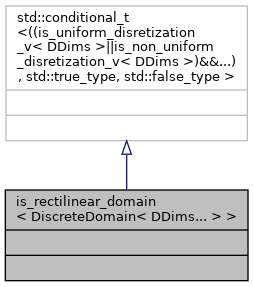
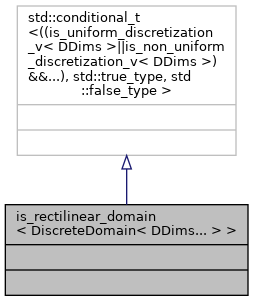
Update to match 39ebd8e16cf81e4c03fc0f7880548fac4b9d518c by push 31

diff --git a/uniform__discretization_8hpp_source.html b/uniform__discretization_8hpp_source.html
@@ -119,17 +119,17 @@ $(document).ready(function(){initNavTree('uniform__discretization_8hpp_source.ht
 <div class="line"><a name="l00086"></a><span class="lineno">   86</span>&#160;};</div>
 <div class="line"><a name="l00087"></a><span class="lineno">   87</span>&#160; </div>
 <div class="line"><a name="l00088"></a><span class="lineno">   88</span>&#160;<span class="keyword">template</span> &lt;<span class="keyword">class</span>&gt;</div>
-<div class="line"><a name="l00089"></a><span class="lineno"><a class="line" href="structis__uniform__disretization.html">   89</a></span>&#160;<span class="keyword">struct </span><a class="code" href="structis__uniform__disretization.html">is_uniform_disretization</a> : <span class="keyword">public</span> std::false_type</div>
+<div class="line"><a name="l00089"></a><span class="lineno"><a class="line" href="structis__uniform__discretization.html">   89</a></span>&#160;<span class="keyword">struct </span><a class="code" href="structis__uniform__discretization.html">is_uniform_discretization</a> : <span class="keyword">public</span> std::false_type</div>
 <div class="line"><a name="l00090"></a><span class="lineno">   90</span>&#160;{</div>
 <div class="line"><a name="l00091"></a><span class="lineno">   91</span>&#160;};</div>
 <div class="line"><a name="l00092"></a><span class="lineno">   92</span>&#160; </div>
 <div class="line"><a name="l00093"></a><span class="lineno">   93</span>&#160;<span class="keyword">template</span> &lt;<span class="keyword">class</span> CDim&gt;</div>
-<div class="line"><a name="l00094"></a><span class="lineno"><a class="line" href="structis__uniform__disretization_3_01UniformDiscretization_3_01CDim_01_4_01_4.html">   94</a></span>&#160;<span class="keyword">struct </span><a class="code" href="structis__uniform__disretization.html">is_uniform_disretization</a>&lt;<a class="code" href="classUniformDiscretization.html">UniformDiscretization</a>&lt;CDim&gt;&gt; : <span class="keyword">public</span> std::true_type</div>
+<div class="line"><a name="l00094"></a><span class="lineno"><a class="line" href="structis__uniform__discretization_3_01UniformDiscretization_3_01CDim_01_4_01_4.html">   94</a></span>&#160;<span class="keyword">struct </span><a class="code" href="structis__uniform__discretization.html">is_uniform_discretization</a>&lt;<a class="code" href="classUniformDiscretization.html">UniformDiscretization</a>&lt;CDim&gt;&gt; : <span class="keyword">public</span> std::true_type</div>
 <div class="line"><a name="l00095"></a><span class="lineno">   95</span>&#160;{</div>
 <div class="line"><a name="l00096"></a><span class="lineno">   96</span>&#160;};</div>
 <div class="line"><a name="l00097"></a><span class="lineno">   97</span>&#160; </div>
 <div class="line"><a name="l00098"></a><span class="lineno">   98</span>&#160;<span class="keyword">template</span> &lt;<span class="keyword">class</span> DDim&gt;</div>
-<div class="line"><a name="l00099"></a><span class="lineno">   99</span>&#160;constexpr <span class="keywordtype">bool</span> is_uniform_disretization_v = <a class="code" href="structis__uniform__disretization.html">is_uniform_disretization&lt;DDim&gt;::value</a>;</div>
+<div class="line"><a name="l00099"></a><span class="lineno">   99</span>&#160;constexpr <span class="keywordtype">bool</span> is_uniform_discretization_v = <a class="code" href="structis__uniform__discretization.html">is_uniform_discretization&lt;DDim&gt;::value</a>;</div>
 <div class="line"><a name="l00100"></a><span class="lineno">  100</span>&#160; </div>
 <div class="line"><a name="l00101"></a><span class="lineno">  101</span>&#160; </div>
 <div class="line"><a name="l00102"></a><span class="lineno">  102</span>&#160;<span class="keyword">template</span> &lt;<span class="keyword">class</span> CDim&gt;</div>
@@ -140,13 +140,13 @@ $(document).ready(function(){initNavTree('uniform__discretization_8hpp_source.ht
 <div class="line"><a name="l00107"></a><span class="lineno">  107</span>&#160;}</div>
 <div class="line"><a name="l00108"></a><span class="lineno">  108</span>&#160; </div>
 <div class="line"><a name="l00110"></a><span class="lineno">  110</span>&#160;<span class="keyword">template</span> &lt;<span class="keyword">class</span> DDim&gt;</div>
-<div class="line"><a name="l00111"></a><span class="lineno">  111</span>&#160;std::enable_if_t&lt;is_uniform_disretization_v&lt;DDim&gt;, <span class="keyword">typename</span> DDim::rcoord_type&gt; origin() noexcept</div>
+<div class="line"><a name="l00111"></a><span class="lineno">  111</span>&#160;std::enable_if_t&lt;is_uniform_discretization_v&lt;DDim&gt;, <span class="keyword">typename</span> DDim::rcoord_type&gt; origin() noexcept</div>
 <div class="line"><a name="l00112"></a><span class="lineno">  112</span>&#160;{</div>
 <div class="line"><a name="l00113"></a><span class="lineno">  113</span>&#160;    <span class="keywordflow">return</span> discretization&lt;DDim&gt;().origin();</div>
 <div class="line"><a name="l00114"></a><span class="lineno">  114</span>&#160;}</div>
 <div class="line"><a name="l00115"></a><span class="lineno">  115</span>&#160; </div>
 <div class="line"><a name="l00117"></a><span class="lineno">  117</span>&#160;<span class="keyword">template</span> &lt;<span class="keyword">class</span> DDim&gt;</div>
-<div class="line"><a name="l00118"></a><span class="lineno">  118</span>&#160;std::enable_if_t&lt;is_uniform_disretization_v&lt;DDim&gt;, <span class="keyword">typename</span> DDim::rcoord_type&gt; step() noexcept</div>
+<div class="line"><a name="l00118"></a><span class="lineno">  118</span>&#160;std::enable_if_t&lt;is_uniform_discretization_v&lt;DDim&gt;, <span class="keyword">typename</span> DDim::rcoord_type&gt; step() noexcept</div>
 <div class="line"><a name="l00119"></a><span class="lineno">  119</span>&#160;{</div>
 <div class="line"><a name="l00120"></a><span class="lineno">  120</span>&#160;    <span class="keywordflow">return</span> discretization&lt;DDim&gt;().step();</div>
 <div class="line"><a name="l00121"></a><span class="lineno">  121</span>&#160;}</div>
@@ -196,11 +196,11 @@ $(document).ready(function(){initNavTree('uniform__discretization_8hpp_source.ht
 <div class="ttc" id="aclassUniformDiscretization_html_ac77ac9f0fe728b7604f74615b544b52f"><div class="ttname"><a href="classUniformDiscretization.html#ac77ac9f0fe728b7604f74615b544b52f">UniformDiscretization::UniformDiscretization</a></div><div class="ttdeci">constexpr UniformDiscretization(rcoord_type a, rcoord_type b, std::size_t n)</div><div class="ttdoc">Construct a UniformDiscretization from a segment  and a number of points n.</div><div class="ttdef"><b>Definition:</b> uniform_discretization.hpp:55</div></div>
 <div class="ttc" id="aclassUniformDiscretization_html_afb0660ef840bf122183332a79ce888bb"><div class="ttname"><a href="classUniformDiscretization.html#afb0660ef840bf122183332a79ce888bb">UniformDiscretization::mcoord_type</a></div><div class="ttdeci">DiscreteCoordinate&lt; UniformDiscretization &gt; mcoord_type</div><div class="ttdef"><b>Definition:</b> uniform_discretization.hpp:19</div></div>
 <div class="ttc" id="aclassDiscreteDomain_html"><div class="ttname"><a href="classDiscreteDomain.html">DiscreteDomain</a></div><div class="ttdef"><b>Definition:</b> discrete_domain.hpp:17</div></div>
-<div class="ttc" id="astructis__uniform__disretization_html"><div class="ttname"><a href="structis__uniform__disretization.html">is_uniform_disretization</a></div><div class="ttdef"><b>Definition:</b> uniform_discretization.hpp:89</div></div>
 <div class="ttc" id="aclassUniformDiscretization_html_aa679e3c486551a4fa5c930ffe08cd75a"><div class="ttname"><a href="classUniformDiscretization.html#aa679e3c486551a4fa5c930ffe08cd75a">UniformDiscretization::origin</a></div><div class="ttdeci">constexpr rcoord_type origin() const noexcept</div><div class="ttdoc">Lower bound index of the mesh.</div><div class="ttdef"><b>Definition:</b> uniform_discretization.hpp:70</div></div>
 <div class="ttc" id="aclassUniformDiscretization_html_a2b56fcf6685e7b74b8577c52cce5a035"><div class="ttname"><a href="classUniformDiscretization.html#a2b56fcf6685e7b74b8577c52cce5a035">UniformDiscretization::rdim_type</a></div><div class="ttdeci">CDim rdim_type</div><div class="ttdef"><b>Definition:</b> uniform_discretization.hpp:21</div></div>
 <div class="ttc" id="aclassUniformDiscretization_html_a524faba320f5ef9437fff2ba2d0d2015"><div class="ttname"><a href="classUniformDiscretization.html#a524faba320f5ef9437fff2ba2d0d2015">UniformDiscretization::step</a></div><div class="ttdeci">constexpr rcoord_type step() const</div><div class="ttdoc">Spacing step of the mesh.</div><div class="ttdef"><b>Definition:</b> uniform_discretization.hpp:76</div></div>
 <div class="ttc" id="aclassUniformDiscretization_html_a5e883613a110654331e2dee801213532"><div class="ttname"><a href="classUniformDiscretization.html#a5e883613a110654331e2dee801213532">UniformDiscretization::~UniformDiscretization</a></div><div class="ttdeci">~UniformDiscretization()=default</div></div>
 <div class="ttc" id="aclassUniformDiscretization_html_a531eb39b115772d09ade01a08bcc1444"><div class="ttname"><a href="classUniformDiscretization.html#a531eb39b115772d09ade01a08bcc1444">UniformDiscretization::rank</a></div><div class="ttdeci">static constexpr std::size_t rank()</div><div class="ttdef"><b>Definition:</b> uniform_discretization.hpp:24</div></div>
+<div class="ttc" id="astructis__uniform__discretization_html"><div class="ttname"><a href="structis__uniform__discretization.html">is_uniform_discretization</a></div><div class="ttdef"><b>Definition:</b> uniform_discretization.hpp:89</div></div>
 </body>
 </html>

diff --git a/non__uniform__discretization_8hpp_source.html b/non__uniform__discretization_8hpp_source.html
@@ -115,17 +115,17 @@ $(document).ready(function(){initNavTree('non__uniform__discretization_8hpp_sour
 <div class="line"><a name="l00071"></a><span class="lineno">   71</span>&#160;};</div>
 <div class="line"><a name="l00072"></a><span class="lineno">   72</span>&#160; </div>
 <div class="line"><a name="l00073"></a><span class="lineno">   73</span>&#160;<span class="keyword">template</span> &lt;<span class="keyword">class</span>&gt;</div>
-<div class="line"><a name="l00074"></a><span class="lineno"><a class="line" href="structis__non__uniform__disretization.html">   74</a></span>&#160;<span class="keyword">struct </span><a class="code" href="structis__non__uniform__disretization.html">is_non_uniform_disretization</a> : <span class="keyword">public</span> std::false_type</div>
+<div class="line"><a name="l00074"></a><span class="lineno"><a class="line" href="structis__non__uniform__discretization.html">   74</a></span>&#160;<span class="keyword">struct </span><a class="code" href="structis__non__uniform__discretization.html">is_non_uniform_discretization</a> : <span class="keyword">public</span> std::false_type</div>
 <div class="line"><a name="l00075"></a><span class="lineno">   75</span>&#160;{</div>
 <div class="line"><a name="l00076"></a><span class="lineno">   76</span>&#160;};</div>
 <div class="line"><a name="l00077"></a><span class="lineno">   77</span>&#160; </div>
 <div class="line"><a name="l00078"></a><span class="lineno">   78</span>&#160;<span class="keyword">template</span> &lt;<span class="keyword">class</span> CDim&gt;</div>
-<div class="line"><a name="l00079"></a><span class="lineno"><a class="line" href="structis__non__uniform__disretization_3_01NonUniformDiscretization_3_01CDim_01_4_01_4.html">   79</a></span>&#160;<span class="keyword">struct </span><a class="code" href="structis__non__uniform__disretization.html">is_non_uniform_disretization</a>&lt;<a class="code" href="classNonUniformDiscretization.html">NonUniformDiscretization</a>&lt;CDim&gt;&gt; : <span class="keyword">public</span> std::true_type</div>
+<div class="line"><a name="l00079"></a><span class="lineno"><a class="line" href="structis__non__uniform__discretization_3_01NonUniformDiscretization_3_01CDim_01_4_01_4.html">   79</a></span>&#160;<span class="keyword">struct </span><a class="code" href="structis__non__uniform__discretization.html">is_non_uniform_discretization</a>&lt;<a class="code" href="classNonUniformDiscretization.html">NonUniformDiscretization</a>&lt;CDim&gt;&gt; : <span class="keyword">public</span> std::true_type</div>
 <div class="line"><a name="l00080"></a><span class="lineno">   80</span>&#160;{</div>
 <div class="line"><a name="l00081"></a><span class="lineno">   81</span>&#160;};</div>
 <div class="line"><a name="l00082"></a><span class="lineno">   82</span>&#160; </div>
 <div class="line"><a name="l00083"></a><span class="lineno">   83</span>&#160;<span class="keyword">template</span> &lt;<span class="keyword">class</span> DDim&gt;</div>
-<div class="line"><a name="l00084"></a><span class="lineno">   84</span>&#160;constexpr <span class="keywordtype">bool</span> is_non_uniform_disretization_v = <a class="code" href="structis__non__uniform__disretization.html">is_non_uniform_disretization&lt;DDim&gt;::value</a>;</div>
+<div class="line"><a name="l00084"></a><span class="lineno">   84</span>&#160;constexpr <span class="keywordtype">bool</span> is_non_uniform_discretization_v = <a class="code" href="structis__non__uniform__discretization.html">is_non_uniform_discretization&lt;DDim&gt;::value</a>;</div>
 <div class="line"><a name="l00085"></a><span class="lineno">   85</span>&#160; </div>
 <div class="line"><a name="l00086"></a><span class="lineno">   86</span>&#160;<span class="keyword">template</span> &lt;<span class="keyword">class</span> CDim&gt;</div>
 <div class="line"><a name="l00087"></a><span class="lineno">   87</span>&#160;std::ostream&amp; operator&lt;&lt;(std::ostream&amp; out, <a class="code" href="classNonUniformDiscretization.html">NonUniformDiscretization&lt;CDim&gt;</a> <span class="keyword">const</span>&amp; mesh)</div>
@@ -171,6 +171,7 @@ $(document).ready(function(){initNavTree('non__uniform__discretization_8hpp_sour
 </div><!-- fragment --></div><!-- contents -->
 </div><!-- doc-content -->
 <div class="ttc" id="aclassNonUniformDiscretization_html"><div class="ttname"><a href="classNonUniformDiscretization.html">NonUniformDiscretization</a></div><div class="ttdoc">NonUniformDiscretization models a non-uniform discretization of the CDim segment .</div><div class="ttdef"><b>Definition:</b> non_uniform_discretization.hpp:14</div></div>
+<div class="ttc" id="astructis__non__uniform__discretization_html"><div class="ttname"><a href="structis__non__uniform__discretization.html">is_non_uniform_discretization</a></div><div class="ttdef"><b>Definition:</b> non_uniform_discretization.hpp:74</div></div>
 <div class="ttc" id="aclassNonUniformDiscretization_html_a09872caa2a5fbed5bb7eb9706b582595"><div class="ttname"><a href="classNonUniformDiscretization.html#a09872caa2a5fbed5bb7eb9706b582595">NonUniformDiscretization::NonUniformDiscretization</a></div><div class="ttdeci">constexpr NonUniformDiscretization(InputIt points_begin, InputIt points_end)</div><div class="ttdoc">Construct a NonUniformDiscretization using a pair of iterators.</div><div class="ttdef"><b>Definition:</b> non_uniform_discretization.hpp:50</div></div>
 <div class="ttc" id="aclassNonUniformDiscretization_html_ade355a5bd24c8a833fda6179de8466c6"><div class="ttname"><a href="classNonUniformDiscretization.html#ade355a5bd24c8a833fda6179de8466c6">NonUniformDiscretization::rcoord_type</a></div><div class="ttdeci">Coordinate&lt; CDim &gt; rcoord_type</div><div class="ttdef"><b>Definition:</b> non_uniform_discretization.hpp:17</div></div>
 <div class="ttc" id="aclassNonUniformDiscretization_html_ae024d15667d85acd265bcf244f073f61"><div class="ttname"><a href="classNonUniformDiscretization.html#ae024d15667d85acd265bcf244f073f61">NonUniformDiscretization::NonUniformDiscretization</a></div><div class="ttdeci">NonUniformDiscretization()=default</div></div>
@@ -182,7 +183,6 @@ $(document).ready(function(){initNavTree('non__uniform__discretization_8hpp_sour
 <div class="ttc" id="aclassNonUniformDiscretization_html_aee9fe6f42362c12f5b9dd7f3b0ac5e64"><div class="ttname"><a href="classNonUniformDiscretization.html#aee9fe6f42362c12f5b9dd7f3b0ac5e64">NonUniformDiscretization::NonUniformDiscretization</a></div><div class="ttdeci">NonUniformDiscretization(std::initializer_list&lt; rcoord_type &gt; points)</div><div class="ttdoc">Construct a NonUniformDiscretization using a brace-list, i.e. NonUniformDiscretization mesh({0....</div><div class="ttdef"><b>Definition:</b> non_uniform_discretization.hpp:36</div></div>
 <div class="ttc" id="aclassNonUniformDiscretization_html_a3ef9a15d78e957ac4129b9b9edf9a44f"><div class="ttname"><a href="classNonUniformDiscretization.html#a3ef9a15d78e957ac4129b9b9edf9a44f">NonUniformDiscretization::rdim_type</a></div><div class="ttdeci">CDim rdim_type</div><div class="ttdef"><b>Definition:</b> non_uniform_discretization.hpp:21</div></div>
 <div class="ttc" id="aclassNonUniformDiscretization_html_a0994c9bee8558427e61336f6234dd7a3"><div class="ttname"><a href="classNonUniformDiscretization.html#a0994c9bee8558427e61336f6234dd7a3">NonUniformDiscretization::size</a></div><div class="ttdeci">constexpr std::size_t size() const</div><div class="ttdef"><b>Definition:</b> non_uniform_discretization.hpp:61</div></div>
-<div class="ttc" id="astructis__non__uniform__disretization_html"><div class="ttname"><a href="structis__non__uniform__disretization.html">is_non_uniform_disretization</a></div><div class="ttdef"><b>Definition:</b> non_uniform_discretization.hpp:74</div></div>
 <div class="ttc" id="aclassNonUniformDiscretization_html_ac86c3569ff23159b3e471137abcc03d9"><div class="ttname"><a href="classNonUniformDiscretization.html#ac86c3569ff23159b3e471137abcc03d9">NonUniformDiscretization::rank</a></div><div class="ttdeci">static constexpr std::size_t rank()</div><div class="ttdef"><b>Definition:</b> non_uniform_discretization.hpp:24</div></div>
 </body>
 </html>

diff --git a/annotated.html b/annotated.html
@@ -58,12 +58,12 @@ $(document).ready(function(){initNavTree('annotated.html',''); initResizable(); 
 <tr id="row_6_" class="even"><td class="entry"><span style="width:16px;display:inline-block;">&#160;</span><span class="icona"><span class="icon">C</span></span><a class="el" href="classChunkSpan_3_01ElementType_00_01DiscreteDomain_3_01DDims_8_8_8_01_4_00_01LayoutStridedPolicy_01_4.html" target="_self">ChunkSpan&lt; ElementType, DiscreteDomain&lt; DDims... &gt;, LayoutStridedPolicy &gt;</a></td><td class="desc"></td></tr>
 <tr id="row_7_"><td class="entry"><span style="width:16px;display:inline-block;">&#160;</span><span class="icona"><span class="icon">C</span></span><a class="el" href="classDiscreteDomain.html" target="_self">DiscreteDomain</a></td><td class="desc"></td></tr>
 <tr id="row_8_" class="even"><td class="entry"><span style="width:16px;display:inline-block;">&#160;</span><span class="icona"><span class="icon">C</span></span><a class="el" href="structDiscreteDomainIterator.html" target="_self">DiscreteDomainIterator</a></td><td class="desc"></td></tr>
-<tr id="row_9_"><td class="entry"><span style="width:16px;display:inline-block;">&#160;</span><span class="icona"><span class="icon">C</span></span><a class="el" href="structis__non__uniform__disretization.html" target="_self">is_non_uniform_disretization</a></td><td class="desc"></td></tr>
-<tr id="row_10_" class="even"><td class="entry"><span style="width:16px;display:inline-block;">&#160;</span><span class="icona"><span class="icon">C</span></span><a class="el" href="structis__non__uniform__disretization_3_01NonUniformDiscretization_3_01CDim_01_4_01_4.html" target="_self">is_non_uniform_disretization&lt; NonUniformDiscretization&lt; CDim &gt; &gt;</a></td><td class="desc"></td></tr>
+<tr id="row_9_"><td class="entry"><span style="width:16px;display:inline-block;">&#160;</span><span class="icona"><span class="icon">C</span></span><a class="el" href="structis__non__uniform__discretization.html" target="_self">is_non_uniform_discretization</a></td><td class="desc"></td></tr>
+<tr id="row_10_" class="even"><td class="entry"><span style="width:16px;display:inline-block;">&#160;</span><span class="icona"><span class="icon">C</span></span><a class="el" href="structis__non__uniform__discretization_3_01NonUniformDiscretization_3_01CDim_01_4_01_4.html" target="_self">is_non_uniform_discretization&lt; NonUniformDiscretization&lt; CDim &gt; &gt;</a></td><td class="desc"></td></tr>
 <tr id="row_11_"><td class="entry"><span style="width:16px;display:inline-block;">&#160;</span><span class="icona"><span class="icon">C</span></span><a class="el" href="structis__rectilinear__domain.html" target="_self">is_rectilinear_domain</a></td><td class="desc"></td></tr>
 <tr id="row_12_" class="even"><td class="entry"><span style="width:16px;display:inline-block;">&#160;</span><span class="icona"><span class="icon">C</span></span><a class="el" href="structis__rectilinear__domain_3_01DiscreteDomain_3_01DDims_8_8_8_01_4_01_4.html" target="_self">is_rectilinear_domain&lt; DiscreteDomain&lt; DDims... &gt; &gt;</a></td><td class="desc"></td></tr>
-<tr id="row_13_"><td class="entry"><span style="width:16px;display:inline-block;">&#160;</span><span class="icona"><span class="icon">C</span></span><a class="el" href="structis__uniform__disretization.html" target="_self">is_uniform_disretization</a></td><td class="desc"></td></tr>
-<tr id="row_14_" class="even"><td class="entry"><span style="width:16px;display:inline-block;">&#160;</span><span class="icona"><span class="icon">C</span></span><a class="el" href="structis__uniform__disretization_3_01UniformDiscretization_3_01CDim_01_4_01_4.html" target="_self">is_uniform_disretization&lt; UniformDiscretization&lt; CDim &gt; &gt;</a></td><td class="desc"></td></tr>
+<tr id="row_13_"><td class="entry"><span style="width:16px;display:inline-block;">&#160;</span><span class="icona"><span class="icon">C</span></span><a class="el" href="structis__uniform__discretization.html" target="_self">is_uniform_discretization</a></td><td class="desc"></td></tr>
+<tr id="row_14_" class="even"><td class="entry"><span style="width:16px;display:inline-block;">&#160;</span><span class="icona"><span class="icon">C</span></span><a class="el" href="structis__uniform__discretization_3_01UniformDiscretization_3_01CDim_01_4_01_4.html" target="_self">is_uniform_discretization&lt; UniformDiscretization&lt; CDim &gt; &gt;</a></td><td class="desc"></td></tr>
 <tr id="row_15_"><td class="entry"><span style="width:16px;display:inline-block;">&#160;</span><span class="icona"><span class="icon">C</span></span><a class="el" href="structis__uniform__domain.html" target="_self">is_uniform_domain</a></td><td class="desc"></td></tr>
 <tr id="row_16_" class="even"><td class="entry"><span style="width:16px;display:inline-block;">&#160;</span><span class="icona"><span class="icon">C</span></span><a class="el" href="structis__uniform__domain_3_01DiscreteDomain_3_01DDims_8_8_8_01_4_01_4.html" target="_self">is_uniform_domain&lt; DiscreteDomain&lt; DDims... &gt; &gt;</a></td><td class="desc"></td></tr>
 <tr id="row_17_"><td class="entry"><span style="width:16px;display:inline-block;">&#160;</span><span class="icona"><span class="icon">C</span></span><a class="el" href="classNonUniformDiscretization.html" target="_self">NonUniformDiscretization</a></td><td class="desc"><code><a class="el" href="classNonUniformDiscretization.html" title="NonUniformDiscretization models a non-uniform discretization of the CDim segment .">NonUniformDiscretization</a></code> models a non-uniform discretization of the <code>CDim</code> segment <img class="formulaInl" alt="$[a, b]$" src="form_0.png"/> </td></tr>

diff --git a/structis__uniform__discretization_3_01UniformDiscretization_3_01CDim_01_4_01_4.html b/structis__uniform__discretization_3_01UniformDiscretization_3_01CDim_01_4_01_4.html
@@ -4,7 +4,7 @@
 	<meta charset="UTF-8">
 	<meta name="generator" content="Doxygen 1.8.17"/>
 	<meta name="viewport" content="width=device-width, initial-scale=1"/>
-	<title>DDC: is_non_uniform_disretization&lt; NonUniformDiscretization&lt; CDim &gt; &gt; Struct Template Reference</title>
+	<title>DDC: is_uniform_discretization&lt; UniformDiscretization&lt; CDim &gt; &gt; Struct Template Reference</title>
 	<script type="text/javascript" src="jquery.js"></script>
 	<script type="text/javascript" src="dynsections.js"></script>
 	<script type="text/javascript" src="navtreedata.js"></script>
@@ -38,26 +38,26 @@
 </div>
 <script type="text/javascript">
 /* @license magnet:?xt=urn:btih:cf05388f2679ee054f2beb29a391d25f4e673ac3&amp;dn=gpl-2.0.txt GPL-v2 */
-$(document).ready(function(){initNavTree('structis__non__uniform__disretization_3_01NonUniformDiscretization_3_01CDim_01_4_01_4.html',''); initResizable(); });
+$(document).ready(function(){initNavTree('structis__uniform__discretization_3_01UniformDiscretization_3_01CDim_01_4_01_4.html',''); initResizable(); });
 /* @license-end */
 </script>
 <div id="doc-content">
 <div class="header">
   <div class="headertitle">
-<div class="title">is_non_uniform_disretization&lt; NonUniformDiscretization&lt; CDim &gt; &gt; Struct Template Reference</div>  </div>
+<div class="title">is_uniform_discretization&lt; UniformDiscretization&lt; CDim &gt; &gt; Struct Template Reference</div>  </div>
 </div><!--header-->
 <div class="contents">
 <div class="dynheader">
-Inheritance diagram for is_non_uniform_disretization&lt; NonUniformDiscretization&lt; CDim &gt; &gt;:</div>
+Inheritance diagram for is_uniform_discretization&lt; UniformDiscretization&lt; CDim &gt; &gt;:</div>
 <div class="dyncontent">
-<div class="center"><img src="structis__non__uniform__disretization_3_01NonUniformDiscretization_3_01CDim_01_4_01_4__inherit__graph.png" border="0" usemap="#is__non__uniform__disretization_3_01NonUniformDiscretization_3_01CDim_01_4_01_4_inherit__map" alt="Inheritance graph"/></div>
-<map name="is__non__uniform__disretization_3_01NonUniformDiscretization_3_01CDim_01_4_01_4_inherit__map" id="is__non__uniform__disretization_3_01NonUniformDiscretization_3_01CDim_01_4_01_4_inherit__map">
-<area shape="rect" title=" " alt="" coords="5,131,216,237"/>
-<area shape="rect" title=" " alt="" coords="69,5,153,83"/>
+<div class="center"><img src="structis__uniform__discretization_3_01UniformDiscretization_3_01CDim_01_4_01_4__inherit__graph.png" border="0" usemap="#is__uniform__discretization_3_01UniformDiscretization_3_01CDim_01_4_01_4_inherit__map" alt="Inheritance graph"/></div>
+<map name="is__uniform__discretization_3_01UniformDiscretization_3_01CDim_01_4_01_4_inherit__map" id="is__uniform__discretization_3_01UniformDiscretization_3_01CDim_01_4_01_4_inherit__map">
+<area shape="rect" title=" " alt="" coords="5,131,192,237"/>
+<area shape="rect" title=" " alt="" coords="43,5,155,83"/>
 </map>
 </div>
 <hr/>The documentation for this struct was generated from the following file:<ul>
-<li><a class="el" href="non__uniform__discretization_8hpp_source.html">non_uniform_discretization.hpp</a></li>
+<li><a class="el" href="uniform__discretization_8hpp_source.html">uniform_discretization.hpp</a></li>
 </ul>
 </div><!-- contents -->
 </div><!-- doc-content -->

diff --git a/structis__non__uniform__discretization_3_01NonUniformDiscretization_3_01CDim_01_4_01_4.html b/structis__non__uniform__discretization_3_01NonUniformDiscretization_3_01CDim_01_4_01_4.html
@@ -4,7 +4,7 @@
 	<meta charset="UTF-8">
 	<meta name="generator" content="Doxygen 1.8.17"/>
 	<meta name="viewport" content="width=device-width, initial-scale=1"/>
-	<title>DDC: is_non_uniform_disretization&lt; class &gt; Struct Template Reference</title>
+	<title>DDC: is_non_uniform_discretization&lt; NonUniformDiscretization&lt; CDim &gt; &gt; Struct Template Reference</title>
 	<script type="text/javascript" src="jquery.js"></script>
 	<script type="text/javascript" src="dynsections.js"></script>
 	<script type="text/javascript" src="navtreedata.js"></script>
@@ -38,22 +38,22 @@
 </div>
 <script type="text/javascript">
 /* @license magnet:?xt=urn:btih:cf05388f2679ee054f2beb29a391d25f4e673ac3&amp;dn=gpl-2.0.txt GPL-v2 */
-$(document).ready(function(){initNavTree('structis__non__uniform__disretization.html',''); initResizable(); });
+$(document).ready(function(){initNavTree('structis__non__uniform__discretization_3_01NonUniformDiscretization_3_01CDim_01_4_01_4.html',''); initResizable(); });
 /* @license-end */
 </script>
 <div id="doc-content">
 <div class="header">
   <div class="headertitle">
-<div class="title">is_non_uniform_disretization&lt; class &gt; Struct Template Reference</div>  </div>
+<div class="title">is_non_uniform_discretization&lt; NonUniformDiscretization&lt; CDim &gt; &gt; Struct Template Reference</div>  </div>
 </div><!--header-->
 <div class="contents">
 <div class="dynheader">
-Inheritance diagram for is_non_uniform_disretization&lt; class &gt;:</div>
+Inheritance diagram for is_non_uniform_discretization&lt; NonUniformDiscretization&lt; CDim &gt; &gt;:</div>
 <div class="dyncontent">
-<div class="center"><img src="structis__non__uniform__disretization__inherit__graph.png" border="0" usemap="#is__non__uniform__disretization_3_01class_01_4_inherit__map" alt="Inheritance graph"/></div>
-<map name="is__non__uniform__disretization_3_01class_01_4_inherit__map" id="is__non__uniform__disretization_3_01class_01_4_inherit__map">
-<area shape="rect" title=" " alt="" coords="5,131,216,223"/>
-<area shape="rect" title=" " alt="" coords="65,5,156,83"/>
+<div class="center"><img src="structis__non__uniform__discretization_3_01NonUniformDiscretization_3_01CDim_01_4_01_4__inherit__graph.png" border="0" usemap="#is__non__uniform__discretization_3_01NonUniformDiscretization_3_01CDim_01_4_01_4_inherit__map" alt="Inheritance graph"/></div>
+<map name="is__non__uniform__discretization_3_01NonUniformDiscretization_3_01CDim_01_4_01_4_inherit__map" id="is__non__uniform__discretization_3_01NonUniformDiscretization_3_01CDim_01_4_01_4_inherit__map">
+<area shape="rect" title=" " alt="" coords="5,131,223,237"/>
+<area shape="rect" title=" " alt="" coords="72,5,156,83"/>
 </map>
 </div>
 <hr/>The documentation for this struct was generated from the following file:<ul>

diff --git a/structis__non__uniform__discretization.html b/structis__non__uniform__discretization.html
@@ -4,7 +4,7 @@
 	<meta charset="UTF-8">
 	<meta name="generator" content="Doxygen 1.8.17"/>
 	<meta name="viewport" content="width=device-width, initial-scale=1"/>
-	<title>DDC: is_uniform_disretization&lt; class &gt; Struct Template Reference</title>
+	<title>DDC: is_non_uniform_discretization&lt; class &gt; Struct Template Reference</title>
 	<script type="text/javascript" src="jquery.js"></script>
 	<script type="text/javascript" src="dynsections.js"></script>
 	<script type="text/javascript" src="navtreedata.js"></script>
@@ -38,26 +38,26 @@
 </div>
 <script type="text/javascript">
 /* @license magnet:?xt=urn:btih:cf05388f2679ee054f2beb29a391d25f4e673ac3&amp;dn=gpl-2.0.txt GPL-v2 */
-$(document).ready(function(){initNavTree('structis__uniform__disretization.html',''); initResizable(); });
+$(document).ready(function(){initNavTree('structis__non__uniform__discretization.html',''); initResizable(); });
 /* @license-end */
 </script>
 <div id="doc-content">
 <div class="header">
   <div class="headertitle">
-<div class="title">is_uniform_disretization&lt; class &gt; Struct Template Reference</div>  </div>
+<div class="title">is_non_uniform_discretization&lt; class &gt; Struct Template Reference</div>  </div>
 </div><!--header-->
 <div class="contents">
 <div class="dynheader">
-Inheritance diagram for is_uniform_disretization&lt; class &gt;:</div>
+Inheritance diagram for is_non_uniform_discretization&lt; class &gt;:</div>
 <div class="dyncontent">
-<div class="center"><img src="structis__uniform__disretization__inherit__graph.png" border="0" usemap="#is__uniform__disretization_3_01class_01_4_inherit__map" alt="Inheritance graph"/></div>
-<map name="is__uniform__disretization_3_01class_01_4_inherit__map" id="is__uniform__disretization_3_01class_01_4_inherit__map">
-<area shape="rect" title=" " alt="" coords="5,131,184,223"/>
-<area shape="rect" title=" " alt="" coords="49,5,140,83"/>
+<div class="center"><img src="structis__non__uniform__discretization__inherit__graph.png" border="0" usemap="#is__non__uniform__discretization_3_01class_01_4_inherit__map" alt="Inheritance graph"/></div>
+<map name="is__non__uniform__discretization_3_01class_01_4_inherit__map" id="is__non__uniform__discretization_3_01class_01_4_inherit__map">
+<area shape="rect" title=" " alt="" coords="5,131,223,223"/>
+<area shape="rect" title=" " alt="" coords="69,5,159,83"/>
 </map>
 </div>
 <hr/>The documentation for this struct was generated from the following file:<ul>
-<li><a class="el" href="uniform__discretization_8hpp_source.html">uniform_discretization.hpp</a></li>
+<li><a class="el" href="non__uniform__discretization_8hpp_source.html">non_uniform_discretization.hpp</a></li>
 </ul>
 </div><!-- contents -->
 </div><!-- doc-content -->

diff --git a/structis__uniform__discretization.html b/structis__uniform__discretization.html
@@ -4,7 +4,7 @@
 	<meta charset="UTF-8">
 	<meta name="generator" content="Doxygen 1.8.17"/>
 	<meta name="viewport" content="width=device-width, initial-scale=1"/>
-	<title>DDC: is_uniform_disretization&lt; UniformDiscretization&lt; CDim &gt; &gt; Struct Template Reference</title>
+	<title>DDC: is_uniform_discretization&lt; class &gt; Struct Template Reference</title>
 	<script type="text/javascript" src="jquery.js"></script>
 	<script type="text/javascript" src="dynsections.js"></script>
 	<script type="text/javascript" src="navtreedata.js"></script>
@@ -38,22 +38,22 @@
 </div>
 <script type="text/javascript">
 /* @license magnet:?xt=urn:btih:cf05388f2679ee054f2beb29a391d25f4e673ac3&amp;dn=gpl-2.0.txt GPL-v2 */
-$(document).ready(function(){initNavTree('structis__uniform__disretization_3_01UniformDiscretization_3_01CDim_01_4_01_4.html',''); initResizable(); });
+$(document).ready(function(){initNavTree('structis__uniform__discretization.html',''); initResizable(); });
 /* @license-end */
 </script>
 <div id="doc-content">
 <div class="header">
   <div class="headertitle">
-<div class="title">is_uniform_disretization&lt; UniformDiscretization&lt; CDim &gt; &gt; Struct Template Reference</div>  </div>
+<div class="title">is_uniform_discretization&lt; class &gt; Struct Template Reference</div>  </div>
 </div><!--header-->
 <div class="contents">
 <div class="dynheader">
-Inheritance diagram for is_uniform_disretization&lt; UniformDiscretization&lt; CDim &gt; &gt;:</div>
+Inheritance diagram for is_uniform_discretization&lt; class &gt;:</div>
 <div class="dyncontent">
-<div class="center"><img src="structis__uniform__disretization_3_01UniformDiscretization_3_01CDim_01_4_01_4__inherit__graph.png" border="0" usemap="#is__uniform__disretization_3_01UniformDiscretization_3_01CDim_01_4_01_4_inherit__map" alt="Inheritance graph"/></div>
-<map name="is__uniform__disretization_3_01UniformDiscretization_3_01CDim_01_4_01_4_inherit__map" id="is__uniform__disretization_3_01UniformDiscretization_3_01CDim_01_4_01_4_inherit__map">
-<area shape="rect" title=" " alt="" coords="5,131,185,237"/>
-<area shape="rect" title=" " alt="" coords="39,5,151,83"/>
+<div class="center"><img src="structis__uniform__discretization__inherit__graph.png" border="0" usemap="#is__uniform__discretization_3_01class_01_4_inherit__map" alt="Inheritance graph"/></div>
+<map name="is__uniform__discretization_3_01class_01_4_inherit__map" id="is__uniform__discretization_3_01class_01_4_inherit__map">
+<area shape="rect" title=" " alt="" coords="5,131,192,223"/>
+<area shape="rect" title=" " alt="" coords="53,5,144,83"/>
 </map>
 </div>
 <hr/>The documentation for this struct was generated from the following file:<ul>

diff --git a/annotated.js b/annotated.js
@@ -9,12 +9,12 @@ var annotated =
     [ "ChunkSpan< ElementType, DiscreteDomain< DDims... >, LayoutStridedPolicy >", "classChunkSpan_3_01ElementType_00_01DiscreteDomain_3_01DDims_8_8_8_01_4_00_01LayoutStridedPolicy_01_4.html", "classChunkSpan_3_01ElementType_00_01DiscreteDomain_3_01DDims_8_8_8_01_4_00_01LayoutStridedPolicy_01_4" ],
     [ "DiscreteDomain", "classDiscreteDomain.html", "classDiscreteDomain" ],
     [ "DiscreteDomainIterator", "structDiscreteDomainIterator.html", "structDiscreteDomainIterator" ],
-    [ "is_non_uniform_disretization", "structis__non__uniform__disretization.html", null ],
-    [ "is_non_uniform_disretization< NonUniformDiscretization< CDim > >", "structis__non__uniform__disretization_3_01NonUniformDiscretization_3_01CDim_01_4_01_4.html", null ],
+    [ "is_non_uniform_discretization", "structis__non__uniform__discretization.html", null ],
+    [ "is_non_uniform_discretization< NonUniformDiscretization< CDim > >", "structis__non__uniform__discretization_3_01NonUniformDiscretization_3_01CDim_01_4_01_4.html", null ],
     [ "is_rectilinear_domain", "structis__rectilinear__domain.html", null ],
     [ "is_rectilinear_domain< DiscreteDomain< DDims... > >", "structis__rectilinear__domain_3_01DiscreteDomain_3_01DDims_8_8_8_01_4_01_4.html", null ],
-    [ "is_uniform_disretization", "structis__uniform__disretization.html", null ],
-    [ "is_uniform_disretization< UniformDiscretization< CDim > >", "structis__uniform__disretization_3_01UniformDiscretization_3_01CDim_01_4_01_4.html", null ],
+    [ "is_uniform_discretization", "structis__uniform__discretization.html", null ],
+    [ "is_uniform_discretization< UniformDiscretization< CDim > >", "structis__uniform__discretization_3_01UniformDiscretization_3_01CDim_01_4_01_4.html", null ],
     [ "is_uniform_domain", "structis__uniform__domain.html", null ],
     [ "is_uniform_domain< DiscreteDomain< DDims... > >", "structis__uniform__domain_3_01DiscreteDomain_3_01DDims_8_8_8_01_4_01_4.html", null ],
     [ "NonUniformDiscretization", "classNonUniformDiscretization.html", "classNonUniformDiscretization" ],

diff --git a/rectilinear__domain_8hpp_source.html b/rectilinear__domain_8hpp_source.html
@@ -65,7 +65,7 @@ $(document).ready(function(){initNavTree('rectilinear__domain_8hpp_source.html',
 <div class="line"><a name="l00016"></a><span class="lineno">   16</span>&#160;<span class="keyword">template</span> &lt;<span class="keyword">class</span>... DDims&gt;</div>
 <div class="line"><a name="l00017"></a><span class="lineno"><a class="line" href="structis__rectilinear__domain_3_01DiscreteDomain_3_01DDims_8_8_8_01_4_01_4.html">   17</a></span>&#160;<span class="keyword">struct </span><a class="code" href="structis__rectilinear__domain.html">is_rectilinear_domain</a>&lt;<a class="code" href="classDiscreteDomain.html">DiscreteDomain</a>&lt;DDims...&gt;&gt;</div>
 <div class="line"><a name="l00018"></a><span class="lineno">   18</span>&#160;    : std::conditional_t&lt;</div>
-<div class="line"><a name="l00019"></a><span class="lineno">   19</span>&#160;              ((is_uniform_disretization_v&lt;DDims&gt; || is_non_uniform_disretization_v&lt;DDims&gt;)&amp;&amp;...),</div>
+<div class="line"><a name="l00019"></a><span class="lineno">   19</span>&#160;              ((is_uniform_discretization_v&lt;DDims&gt; || is_non_uniform_discretization_v&lt;DDims&gt;)&amp;&amp;...),</div>
 <div class="line"><a name="l00020"></a><span class="lineno">   20</span>&#160;              std::true_type,</div>
 <div class="line"><a name="l00021"></a><span class="lineno">   21</span>&#160;              std::false_type&gt;</div>
 <div class="line"><a name="l00022"></a><span class="lineno">   22</span>&#160;{</div>

diff --git a/uniform__domain_8hpp_source.html b/uniform__domain_8hpp_source.html
@@ -64,7 +64,7 @@ $(document).ready(function(){initNavTree('uniform__domain_8hpp_source.html','');
 <div class="line"><a name="l00015"></a><span class="lineno">   15</span>&#160;<span class="keyword">template</span> &lt;<span class="keyword">class</span>... DDims&gt;</div>
 <div class="line"><a name="l00016"></a><span class="lineno"><a class="line" href="structis__uniform__domain_3_01DiscreteDomain_3_01DDims_8_8_8_01_4_01_4.html">   16</a></span>&#160;<span class="keyword">struct </span><a class="code" href="structis__uniform__domain.html">is_uniform_domain</a>&lt;<a class="code" href="classDiscreteDomain.html">DiscreteDomain</a>&lt;DDims...&gt;&gt;</div>
 <div class="line"><a name="l00017"></a><span class="lineno">   17</span>&#160;    : std::conditional_t&lt;</div>
-<div class="line"><a name="l00018"></a><span class="lineno">   18</span>&#160;              (is_uniform_disretization_v&lt;DDims&gt; &amp;&amp; ...),</div>
+<div class="line"><a name="l00018"></a><span class="lineno">   18</span>&#160;              (is_uniform_discretization_v&lt;DDims&gt; &amp;&amp; ...),</div>
 <div class="line"><a name="l00019"></a><span class="lineno">   19</span>&#160;              std::true_type,</div>
 <div class="line"><a name="l00020"></a><span class="lineno">   20</span>&#160;              std::false_type&gt;</div>
 <div class="line"><a name="l00021"></a><span class="lineno">   21</span>&#160;{</div>

diff --git a/navtreeindex0.js b/navtreeindex0.js
@@ -225,12 +225,12 @@ var NAVTREEINDEX0 =
 "structDiscreteDomainIterator.html#ac1f220bdad61d5d37dbade5812c69e3e":[3,8,9],
 "structDiscreteDomainIterator.html#ace520a958597ad6905d6bc3d0953087a":[3,8,16],
 "structDiscreteDomainIterator.html#ad3f3d38abe1ec61ba22100f3cf1d7a78":[3,8,17],
-"structis__non__uniform__disretization.html":[3,9],
-"structis__non__uniform__disretization_3_01NonUniformDiscretization_3_01CDim_01_4_01_4.html":[3,10],
+"structis__non__uniform__discretization.html":[3,9],
+"structis__non__uniform__discretization_3_01NonUniformDiscretization_3_01CDim_01_4_01_4.html":[3,10],
 "structis__rectilinear__domain.html":[3,11],
 "structis__rectilinear__domain_3_01DiscreteDomain_3_01DDims_8_8_8_01_4_01_4.html":[3,12],
-"structis__uniform__disretization.html":[3,13],
-"structis__uniform__disretization_3_01UniformDiscretization_3_01CDim_01_4_01_4.html":[3,14],
+"structis__uniform__discretization.html":[3,13],
+"structis__uniform__discretization_3_01UniformDiscretization_3_01CDim_01_4_01_4.html":[3,14],
 "structis__uniform__domain.html":[3,15],
 "structis__uniform__domain_3_01DiscreteDomain_3_01DDims_8_8_8_01_4_01_4.html":[3,16]
 };

diff --git a/structis__rectilinear__domain_3_01DiscreteDomain_3_01DDims_8_8_8_01_4_01_4.html b/structis__rectilinear__domain_3_01DiscreteDomain_3_01DDims_8_8_8_01_4_01_4.html
@@ -52,8 +52,8 @@ Inheritance diagram for is_rectilinear_domain&lt; DiscreteDomain&lt; DDims... &g
 <div class="dyncontent">
 <div class="center"><img src="structis__rectilinear__domain_3_01DiscreteDomain_3_01DDims_8_8_8_01_4_01_4__inherit__graph.png" border="0" usemap="#is__rectilinear__domain_3_01DiscreteDomain_3_01DDims_8_8_8_01_4_01_4_inherit__map" alt="Inheritance graph"/></div>
 <map name="is__rectilinear__domain_3_01DiscreteDomain_3_01DDims_8_8_8_01_4_01_4_inherit__map" id="is__rectilinear__domain_3_01DiscreteDomain_3_01DDims_8_8_8_01_4_01_4_inherit__map">
-<area shape="rect" title=" " alt="" coords="5,189,248,281"/>
-<area shape="rect" title=" " alt="" coords="6,5,247,141"/>
+<area shape="rect" title=" " alt="" coords="5,204,248,296"/>
+<area shape="rect" title=" " alt="" coords="17,5,236,156"/>
 </map>
 </div>
 <hr/>The documentation for this struct was generated from the following file:<ul>
